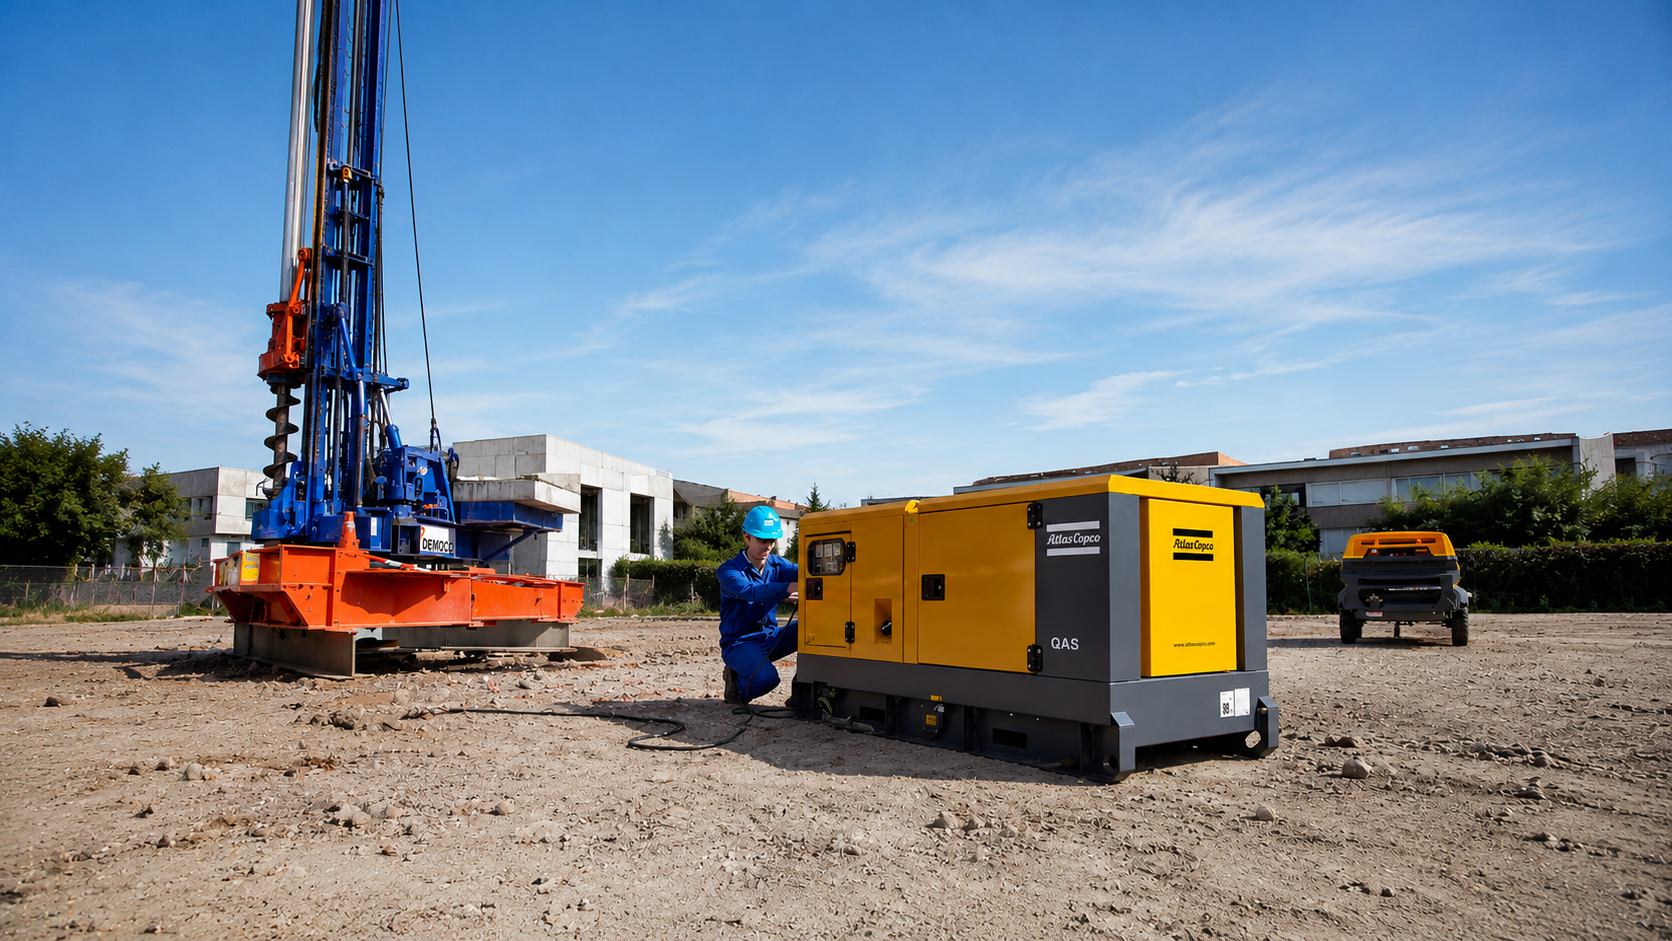
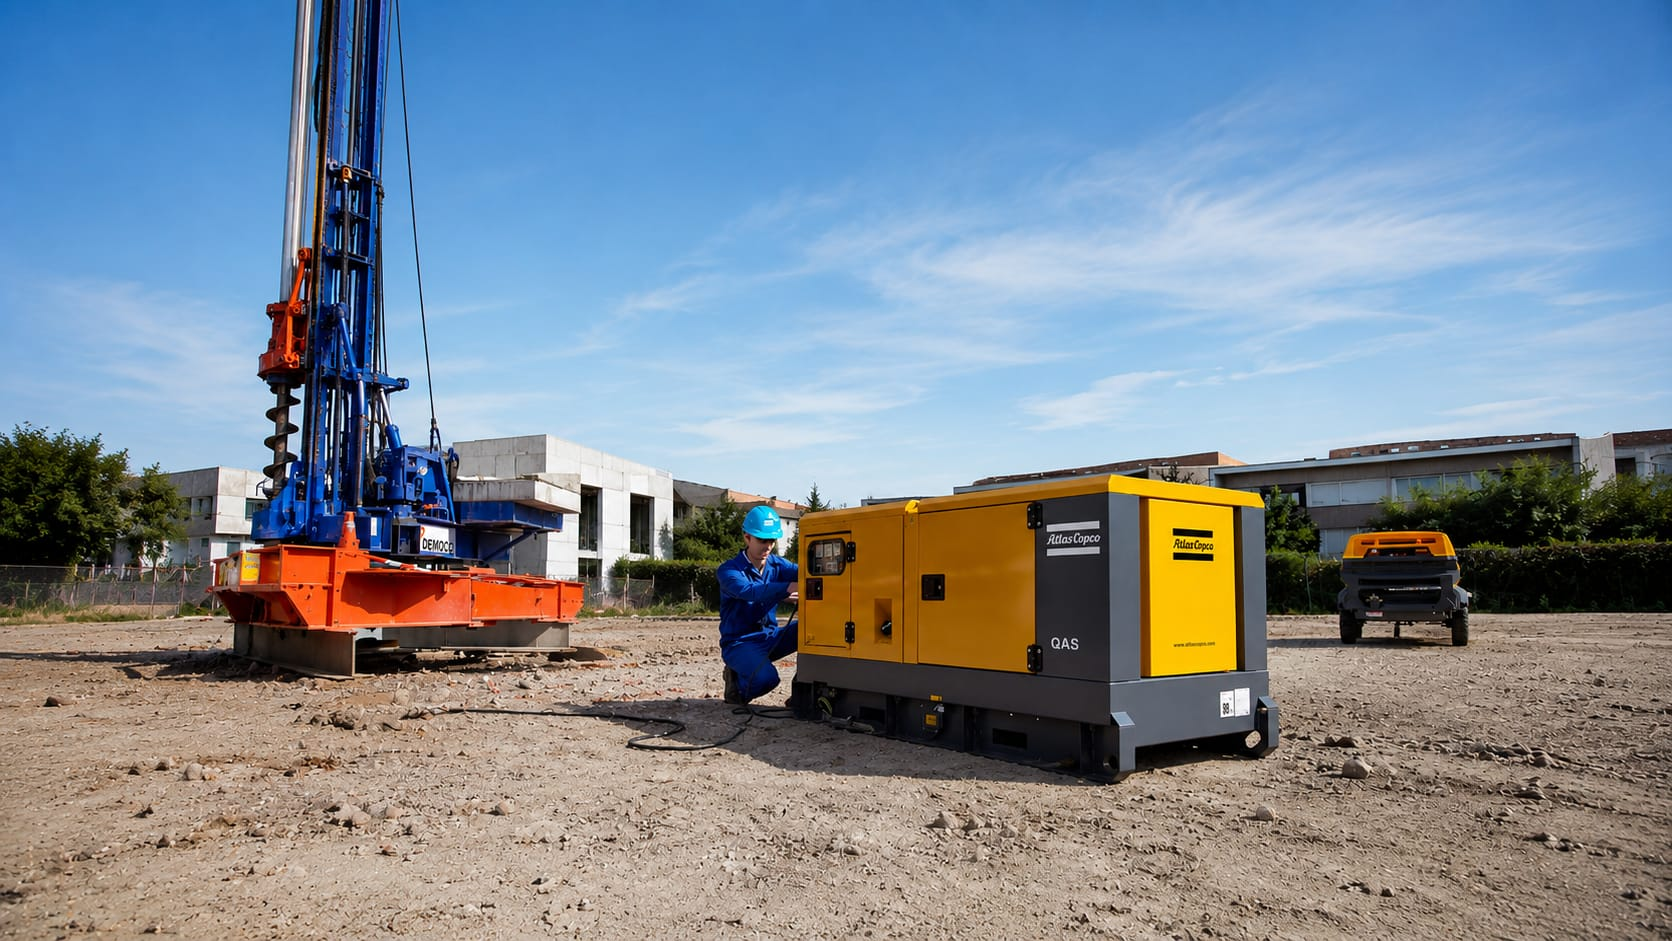
Performance: fontes locais + hero em WebP e ajustes de layout
- Auto-hospeda Sora e DM Sans (subset latin/latin-ext) com preload das
  criticas no SiteLayout, reduzindo o LCP.
- Hero e foto institucional agora servem WebP (com fallback JPG) e o JPG
  foi recomprimido (2.5MB -> 239KB); img com width/height para evitar CLS.
- Ajustes no AdminLayout e no site-v2.css.

diff --git a/src/styles/site-v2.css b/src/styles/site-v2.css
@@ -2,7 +2,40 @@
    ACB Sul — V2 (estilo institucional · ref. Cruzeiro)
    Dark + acento laranja de segurança · Sora / DM Sans
    ============================================================ */
-@import url('https://fonts.googleapis.com/css2?family=Sora:wght@400;500;600;700;800&family=DM+Sans:opsz,wght@9..40,400;9..40,500;9..40,600;9..40,700&display=swap');
+/* Fontes hospedadas localmente (sem requisição externa ao Google).
+   São fontes variáveis: um único arquivo por subset cobre todos os pesos. */
+@font-face {
+  font-family: 'DM Sans';
+  font-style: normal;
+  font-weight: 100 1000;
+  font-display: swap;
+  src: url('/fonts/dm-sans-latin.woff2') format('woff2');
+  unicode-range: U+0000-00FF, U+0131, U[phone redacted], U+02BB-02BC, U+02C6, U+02DA, U+02DC, U+0304, U+0308, U+0329, U+2000-206F, U+20AC, U+2122, U+2191, U+2193, U+2212, U+2215, U+FEFF, U+FFFD;
+}
+@font-face {
+  font-family: 'DM Sans';
+  font-style: normal;
+  font-weight: 100 1000;
+  font-display: swap;
+  src: url('/fonts/dm-sans-latin-ext.woff2') format('woff2');
+  unicode-range: U+0100-02BA, U+02BD-02C5, U+02C7-02CC, U+02CE-02D7, U+02DD-02FF, U+0304, U+0308, U+0329, U+1D00-1DBF, U+1E00-1E9F, U+1EF2-1EFF, U+2020, U+20A0-20AB, U+20AD-20C0, U+2113, U+2C60-2C7F, U+A720-A7FF;
+}
+@font-face {
+  font-family: 'Sora';
+  font-style: normal;
+  font-weight: 100 800;
+  font-display: swap;
+  src: url('/fonts/sora-latin.woff2') format('woff2');
+  unicode-range: U+0000-00FF, U+0131, U[phone redacted], U+02BB-02BC, U+02C6, U+02DA, U+02DC, U+0304, U+0308, U+0329, U+2000-206F, U+20AC, U+2122, U+2191, U+2193, U+2212, U+2215, U+FEFF, U+FFFD;
+}
+@font-face {
+  font-family: 'Sora';
+  font-style: normal;
+  font-weight: 100 800;
+  font-display: swap;
+  src: url('/fonts/sora-latin-ext.woff2') format('woff2');
+  unicode-range: U+0100-02BA, U+02BD-02C5, U+02C7-02CC, U+02CE-02D7, U+02DD-02FF, U+0304, U+0308, U+0329, U+1D00-1DBF, U+1E00-1E9F, U+1EF2-1EFF, U+2020, U+20A0-20AB, U+20AD-20C0, U+2113, U+2C60-2C7F, U+A720-A7FF;
+}
 
 :root{
   --accent:#E2560F;          /* laranja de segurança — APENAS botões e ícones */